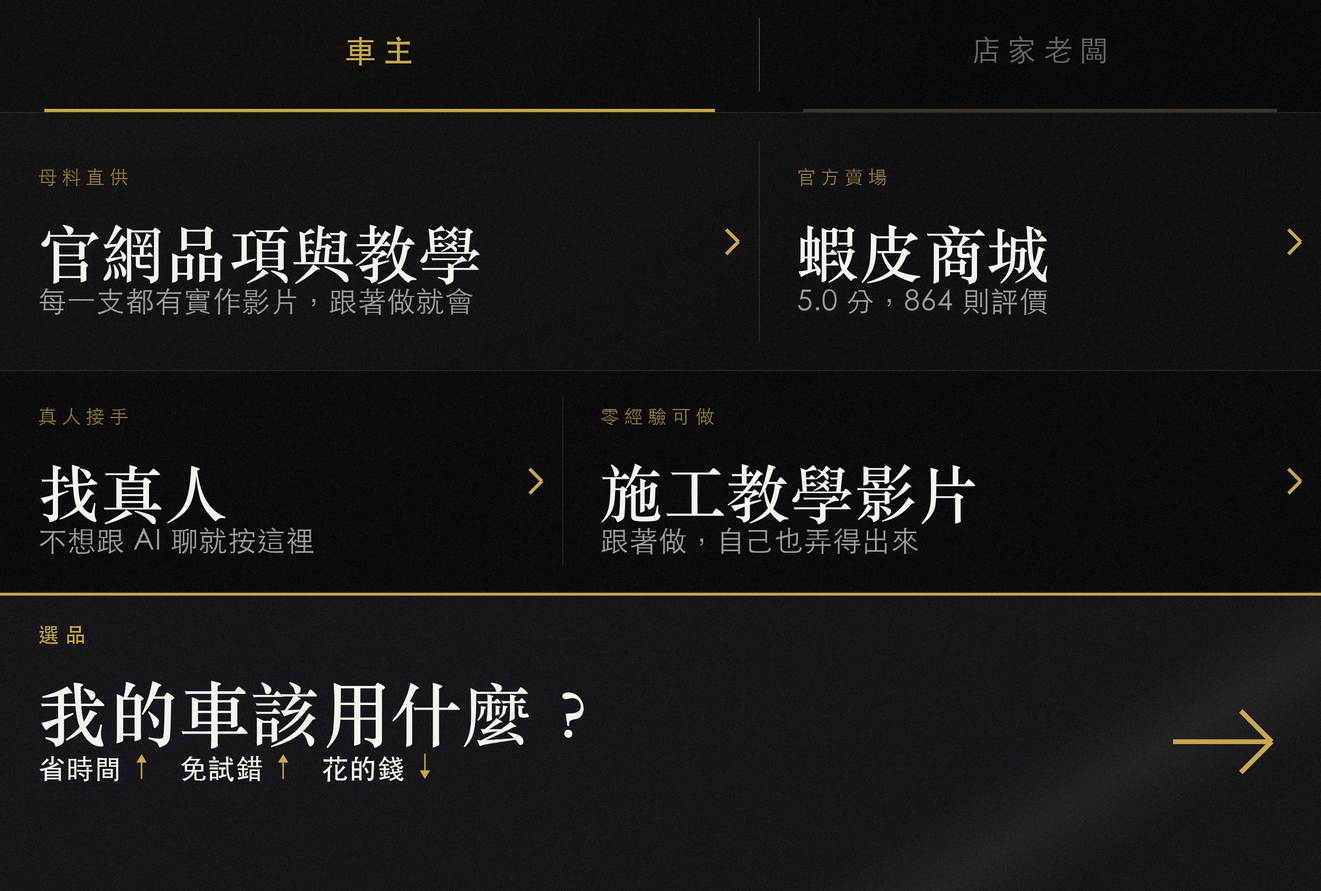
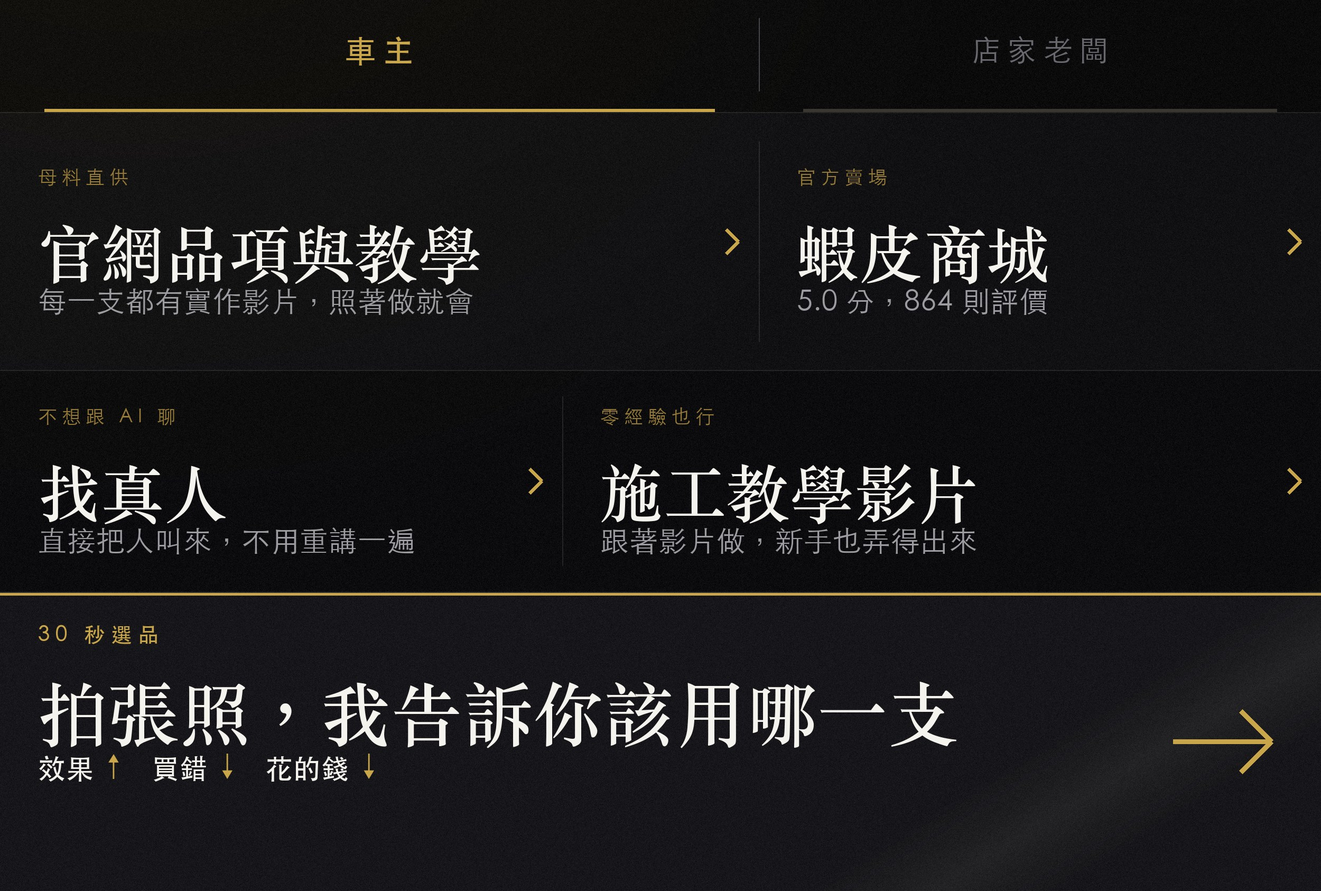
copy(richmenu): 文案修順並加強鉤子
修掉三處自相矛盾／重複:
- 「輕鬆贏過同行的黑科技」配「同行都在用的回店系統」——同詞重複,而且邏輯打架
  (都在用怎麼贏過)。說明改成痛點句「客人只來一次？這套讓他自己想回來」
- 「免繳費限量體驗」配「月付 799 起」——同一格裡直接自打嘴巴。價格移到對話裡由 AI 講,
  說明改「先用看看，適合再談」;眉標「只收 10 家」承接限量
- 「城市限定」在標題與眉標各出現一次 → 眉標改「一個城市只找一家」(順便當「唯一」的佐證)
- 車主版:「找真人」眉標原本也叫「真人接手」;A1 與 B2 說明都寫「跟著做」

加強鉤子:眉標一律改成「先把門檻拆掉」的句子(不用註冊先看／只收 10 家／零經驗也行);
CTA 改成完整承諾句「一個月少賺多少錢，我算給你看」、車主版改「拍張照，我告訴你該用哪一支」。

diff --git a/scripts/pop-richmenu-build.py b/scripts/pop-richmenu-build.py
@@ -191,23 +191,28 @@ os.makedirs(OUT, exist_ok=True)
 
 # 店家版文案＝學誼 2026-08-23 在截圖上親自標紅的字,逐字採用
 SHOP_CELLS = [
-    ('輕鬆贏過同行的黑科技', '同行都在用的回店系統，不用註冊先看', '汽美店專用'),
-    ('免繳費限量搶先體驗', '月付 799 起，不綁約', '名額 10 家'),   # 10 家＝KV COCREATE 真實計數,成交要減量
-    ('耗材批發好價格', '店家價與零售價分開算', '母料直供'),
-    ('城市限定唯一扶持方案', '想了解怎麼幫門店提升來客數，填三行就好', '一次一個城市'),
+    # 眉標＝先把門檻拆掉(不用註冊/只收10家/一個城市只找一家),標題＝學誼標紅的鉤子,說明＝痛點一句話
+    # ⚠ 修過的三處不通順:①原本標題與說明都出現「同行」,而且「贏過同行」跟「同行都在用」邏輯打架
+    #                     ②「免繳費」跟同一格的「月付 799 起」直接自相矛盾 → 價格移到對話裡講
+    #                     ③「城市限定」在標題與眉標各出現一次
+    ('輕鬆贏過同行的黑科技', '客人只來一次？這套讓他自己想回來', '不用註冊先看'),
+    ('免繳費限量體驗', '先用看看，適合再談', '只收 10 家'),
+    ('耗材批發好價格', '店家價，跟零售完全分開算', '母料直供'),
+    ('城市限定唯一扶持方案', '幫你把來客數做起來，填三行就好', '一個城市只找一家'),
 ]
-SHOP_CTA = ('店家必問', '幫你算一個月少賺多少錢',
+SHOP_CTA = ('店家必問', '一個月少賺多少錢，我算給你看',
             [('接車數', '↑'), ('營業額', '↑'), ('客單價', '↑'), ('利潤', '↑'), ('工時', '↓'), ('工位周轉', '↑')])
 
 DRIVER_CELLS = [
     # 眉標刻意不用全大寫英文:那是 AI hero 的招牌動作(anti-ai-craft 一票否決條)
-    ('官網品項與教學', '每一支都有實作影片，跟著做就會', '母料直供'),
+    # 修過:原本「找真人」的眉標也是「真人接手」(同詞重複);A1 與 B2 的說明都寫「跟著做」
+    ('官網品項與教學', '每一支都有實作影片，照著做就會', '母料直供'),
     ('蝦皮商城', '5.0 分，864 則評價', '官方賣場'),
-    ('找真人', '不想跟 AI 聊就按這裡', '真人接手'),
-    ('施工教學影片', '跟著做，自己也弄得出來', '零經驗可做'),
+    ('找真人', '直接把人叫來，不用重講一遍', '不想跟 AI 聊'),
+    ('施工教學影片', '跟著影片做，新手也弄得出來', '零經驗也行'),
 ]
-DRIVER_CTA = ('選品', '我的車該用什麼？',
-              [('省時間', '↑'), ('免試錯', '↑'), ('花的錢', '↓')])
+DRIVER_CTA = ('30 秒選品', '拍張照，我告訴你該用哪一支',
+              [('效果', '↑'), ('買錯', '↓'), ('花的錢', '↓')])
 
 _song = [c[0] for c in SHOP_CELLS + DRIVER_CELLS] + [SHOP_CTA[1], DRIVER_CTA[1]]
 _hei = [c[1] for c in SHOP_CELLS + DRIVER_CELLS] + [c[2] or '' for c in SHOP_CELLS + DRIVER_CELLS] \
